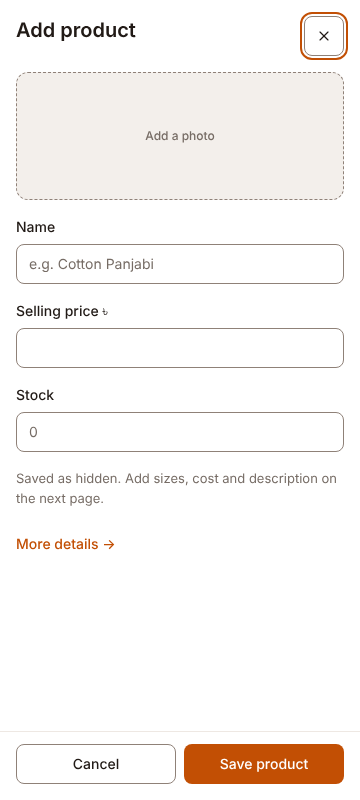
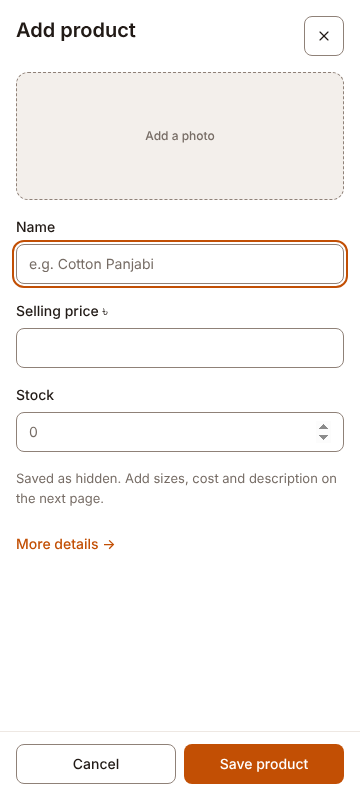
fix(prod-11): focus Name when the quick add opens and show it over the products list

diff --git a/apps/web/src/features/products/components/quick-add-modal.tsx b/apps/web/src/features/products/components/quick-add-modal.tsx
@@ -21,7 +21,7 @@ import { SessionDialog } from '@/components/session-dialog';
 
 const photoTypes = 'image/jpeg,image/png,image/webp';
 
-type Partial = { productId: string; message: string };
+type PartialSave = { productId: string; message: string };
 
 export function QuickAddModal({ onClose }: { onClose: () => void }) {
   const router = useRouter();
@@ -43,7 +43,7 @@ export function QuickAddModal({ onClose }: { onClose: () => void }) {
           }}
           className="flex flex-1 flex-col gap-4"
         >
-          <ProductInputField name="name" label="Name" placeholder="e.g. Cotton Panjabi" autoFocus />
+          <ProductInputField name="name" label="Name" placeholder="e.g. Cotton Panjabi" />
           <div className="grid gap-4 sm:grid-cols-2 sm:gap-3">
             <ProductInputField name="pricePoisha" label="Selling price ৳" />
             <ProductPlainStock />
@@ -128,7 +128,12 @@ function useQuickAdd(onClose: () => void) {
   const [photo, setPhoto] = useState<File | null>(null);
   const preview = usePhotoPreview(photo);
   const openAfterSave = useRef(false);
-  const [partial, setPartial] = useState<Partial | null>(null);
+  // The dialog moves focus to its close button when it opens, so Name takes it back afterwards.
+  useEffect(() => {
+    const frame = requestAnimationFrame(() => form.setFocus('name'));
+    return () => cancelAnimationFrame(frame);
+  }, [form]);
+  const [partial, setPartial] = useState<PartialSave | null>(null);
 
   const save = form.handleSubmit(({ status: _status, variants, ...product }) => {
     const stock = form.getValues('variants.0.initialStock') ?? 0;

diff --git a/apps/web/src/features/products/components/products.spec.tsx b/apps/web/src/features/products/components/products.spec.tsx
@@ -397,6 +397,17 @@ describe('Product editor navigation', () => {
     expect(navigate).toHaveBeenCalledWith('/products/new');
   });
 
+  it('opens the quick add with the cursor in Name', async () => {
+    stubFetch(async () => response({ items: [product], nextCursor: null }));
+    show();
+    await screen.findByRole('table');
+    await userEvent.click(screen.getByRole('button', { name: 'Add product' }));
+    const dialog = await screen.findByRole('dialog', { name: 'Add product' });
+    await vi.waitFor(() =>
+      expect(document.activeElement).toBe(within(dialog).getByLabelText('Name')),
+    );
+  });
+
   it('asks for a name before saving the quick add', async () => {
     stubFetch(async () => response({ items: [product], nextCursor: null }));
     show();
